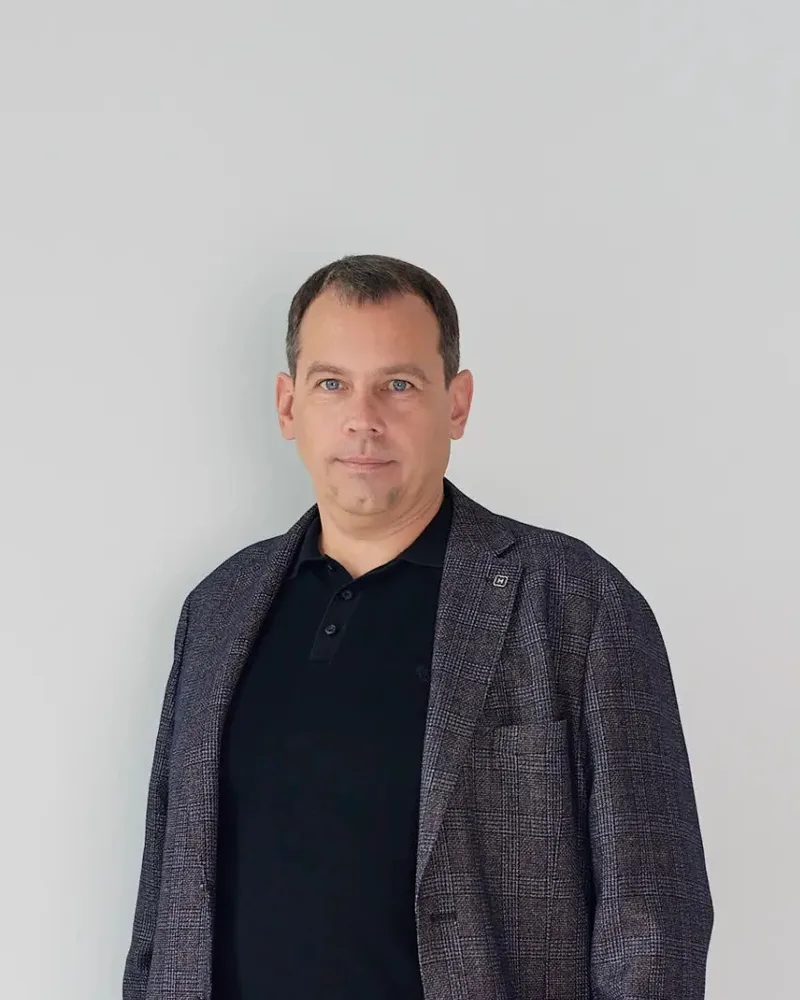
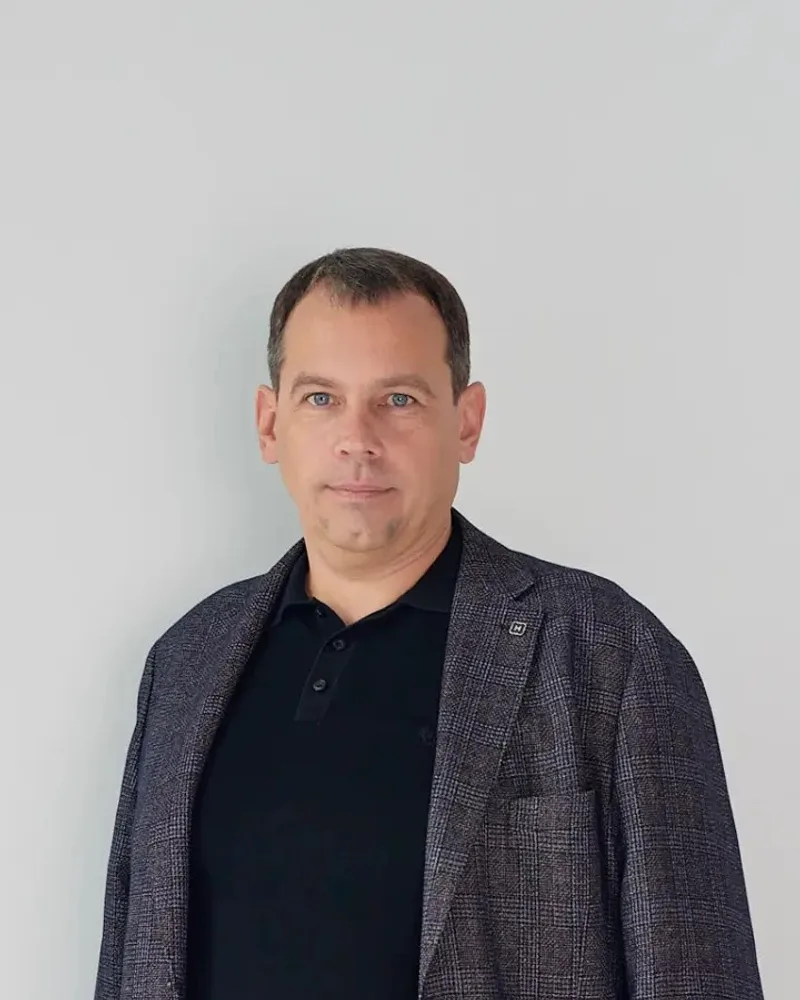
v33: Беляева=модератор программы, /privacy + ссылка в футере, cookie-уведомление, Гаврилов ближе, пресса только от заказчика (+КП)

Changed region(s): [[0.0938, 0.248, 0.9688, 1.0]]

diff --git a/public-regru/privacy/index.html b/public-regru/privacy/index.html
@@ -1,0 +1,110 @@
+<!doctype html>
+<html lang="ru">
+<head>
+  <meta charset="utf-8" />
+  <meta name="viewport" content="width=device-width, initial-scale=1" />
+  <title>Политика обработки персональных данных — «Наше дело»</title>
+  <meta name="description" content="Политика обработки персональных данных участников обучающей бизнес-программы «Наше дело» для ветеранов боевых действий, участников СВО и членов их семей." />
+  <meta name="referrer" content="strict-origin-when-cross-origin" />
+  <link rel="icon" type="image/svg+xml" href="../favicon.svg" />
+  <link rel="icon" type="image/png" href="../favicon.png" />
+  <style>
+    @font-face {
+      font-family: 'Geologica';
+      font-style: normal;
+      font-weight: 300 900;
+      font-display: swap;
+      src: url('../fonts/geologica-cyrillic.woff2') format('woff2');
+      unicode-range: U+0301, U+0400-045F, U+0490-0491, U+04B0-04B1, U+2116;
+    }
+    @font-face {
+      font-family: 'Geologica';
+      font-style: normal;
+      font-weight: 300 900;
+      font-display: swap;
+      src: url('../fonts/geologica-latin.woff2') format('woff2');
+      unicode-range: U+0000-00FF, U+2000-206F, U+20AC, U+2116, U+FEFF, U+FFFD;
+    }
+    :root {
+      --green: #154734;
+      --green-deep: #0d2f22;
+      --beige: #d9bfa8;
+      --brown: #623b2a;
+      --black: #27251f;
+    }
+    * { margin: 0; padding: 0; box-sizing: border-box; }
+    body {
+      font-family: 'Geologica', system-ui, sans-serif;
+      background: linear-gradient(180deg, var(--green-deep) 0%, var(--green) 40%, var(--green-deep) 100%);
+      color: var(--black);
+      min-height: 100vh;
+      -webkit-font-smoothing: antialiased;
+    }
+    .wrap { max-width: 860px; margin: 0 auto; padding: 32px 20px 64px; }
+    .back {
+      display: inline-flex; align-items: center; gap: 8px;
+      color: var(--beige); text-decoration: none; font-weight: 600; font-size: 14px;
+      border: 1.5px solid rgba(217,191,168,.45); border-radius: 999px; padding: 9px 20px;
+      transition: background .25s, border-color .25s;
+    }
+    .back:hover { background: rgba(217,191,168,.12); border-color: var(--beige); }
+    .panel {
+      margin-top: 26px;
+      background: linear-gradient(168deg, #f2e9de 0%, #ebdccf 60%, #e3d0bd 100%);
+      border: 1px solid rgba(217,191,168,.5);
+      border-radius: 22px;
+      box-shadow: inset 0 1px 0 rgba(255,255,255,.6), 0 18px 44px -18px rgba(0,0,0,.5);
+      padding: clamp(26px, 5vw, 56px);
+    }
+    h1 { font-size: clamp(24px, 4.4vw, 36px); font-weight: 900; letter-spacing: -0.02em; line-height: 1.15; text-wrap: balance; }
+    .meta { color: var(--brown); font-size: 13px; margin-top: 12px; }
+    h2 { font-size: clamp(17px, 2.6vw, 21px); font-weight: 800; margin: 34px 0 10px; letter-spacing: -0.01em; }
+    p, li { font-size: 15.5px; line-height: 1.68; }
+    p + p { margin-top: 10px; }
+    ul { margin: 8px 0 0 22px; }
+    li + li { margin-top: 8px; }
+    a.inline { color: var(--brown); font-weight: 600; }
+    .foot { margin-top: 40px; padding-top: 18px; border-top: 1px solid rgba(98,59,42,.2); color: var(--brown); font-size: 13px; }
+  </style>
+</head>
+<body>
+  <div class="wrap">
+    <a class="back" href="../">&#8592;&nbsp;На главную нашедело23.рф</a>
+
+    <div class="panel">
+      <h1>Политика обработки персональных данных</h1>
+      <p class="meta">Обучающая бизнес-программа «Наше дело» · редакция от 24.07.2026</p>
+
+      <h2>1. Общие положения</h2>
+      <p>Настоящая Политика определяет порядок обработки персональных данных участников обучающей бизнес-программы «Наше дело» для ветеранов боевых действий, участников специальной военной операции и членов их семей (далее — Программа) и действует в отношении данных, собираемых через анкету регистрации на сервисе «Яндекс Формы» и сайт нашедело23.рф.</p>
+
+      <h2>2. Операторы</h2>
+      <ul>
+        <li>Союз «Торгово-промышленная палата Краснодарского края», 350063, г.&nbsp;Краснодар, ул.&nbsp;Коммунаров, 8.</li>
+        <li>Унитарная некоммерческая организация «Фонд развития бизнеса Краснодарского края», ИНН&nbsp;2310140890, ОГРН&nbsp;1092300002695, 350911, г.&nbsp;Краснодар, ул.&nbsp;Трамвайная, 2/6; info@нашедело23.рф, 8&nbsp;(861)&nbsp;992-03-47.</li>
+      </ul>
+
+      <h2>3. Правовое основание и цели обработки</h2>
+      <p>Основание обработки — согласие субъекта персональных данных (п. 1 ч. 1 ст. 6 Федерального закона от 27.07.2006 № 152-ФЗ «О персональных данных»), данное при отправке анкеты регистрации. Цели — регистрация и организация участия в Программе: проверка соответствия условиям участия, связь с участником, формирование учебных групп по городам, информирование о расписании и материалах Программы.</p>
+
+      <h2>4. Состав обрабатываемых данных</h2>
+      <p>Фамилия, имя, отчество; адрес регистрации (населённый пункт); номер телефона; адрес электронной почты; выбранный город обучения; сведения о наличии статуса индивидуального предпринимателя или участии в юридическом лице; сфера предпринимательской деятельности; данные, содержащиеся в копиях документов, подтверждающих участие в боевых действиях и/или специальной военной операции, родство, личность (паспорт).</p>
+      <p>Сайт нашедело23.рф самостоятельно персональные данные не собирает. На сайте используется сервис веб-аналитики Яндекс.Метрика (ООО «ЯНДЕКС»), который с помощью файлов cookie собирает обезличенные технические сведения о посещении (данные о браузере, устройстве, IP-адресе, просмотренных страницах) для статистики посещаемости. Продолжая пользоваться сайтом, посетитель соглашается с использованием cookie; отключить cookie можно в настройках браузера.</p>
+
+      <h2>5. Порядок обработки и передачи</h2>
+      <p>Обработка осуществляется смешанным способом, в том числе с использованием сервиса «Яндекс Формы» (ООО «ЯНДЕКС», серверы на территории Российской Федерации). Данные доступны уполномоченным сотрудникам операторов и передаются организациям, привлечённым к проведению Программы (учебные площадки в городах проведения), в объёме, необходимом для организации обучения. Распространение (публикация) персональных данных не осуществляется. Трансграничная передача не осуществляется.</p>
+
+      <h2>6. Сроки обработки</h2>
+      <p>Данные хранятся до достижения целей обработки, но не более 3 (трёх) лет с даты отправки анкеты, либо до отзыва согласия. По завершении Программы данные, не требуемые для отчётности, подлежат уничтожению.</p>
+
+      <h2>7. Права субъекта персональных данных</h2>
+      <p>Субъект вправе получать сведения об обработке своих персональных данных, требовать их уточнения, блокирования или уничтожения, а также отозвать согласие — направив заявление на info@нашедело23.рф или почтовый адрес операторов. Ответ предоставляется в срок, установленный 152-ФЗ.</p>
+
+      <h2>8. Меры защиты</h2>
+      <p>Доступ к анкетам ограничен уполномоченными сотрудниками; используются штатные средства защиты сервиса «Яндекс Формы»; выгрузка данных на носители и пересылка копий документов по открытым каналам не допускаются.</p>
+
+      <p class="foot">Вопросы по обработке персональных данных: info@нашедело23.рф, 8&nbsp;(861)&nbsp;992-03-47.</p>
+    </div>
+  </div>
+</body>
+</html>

diff --git a/public/privacy/index.html b/public/privacy/index.html
@@ -1,0 +1,110 @@
+<!doctype html>
+<html lang="ru">
+<head>
+  <meta charset="utf-8" />
+  <meta name="viewport" content="width=device-width, initial-scale=1" />
+  <title>Политика обработки персональных данных — «Наше дело»</title>
+  <meta name="description" content="Политика обработки персональных данных участников обучающей бизнес-программы «Наше дело» для ветеранов боевых действий, участников СВО и членов их семей." />
+  <meta name="referrer" content="strict-origin-when-cross-origin" />
+  <link rel="icon" type="image/svg+xml" href="../favicon.svg" />
+  <link rel="icon" type="image/png" href="../favicon.png" />
+  <style>
+    @font-face {
+      font-family: 'Geologica';
+      font-style: normal;
+      font-weight: 300 900;
+      font-display: swap;
+      src: url('../fonts/geologica-cyrillic.woff2') format('woff2');
+      unicode-range: U+0301, U+0400-045F, U+0490-0491, U+04B0-04B1, U+2116;
+    }
+    @font-face {
+      font-family: 'Geologica';
+      font-style: normal;
+      font-weight: 300 900;
+      font-display: swap;
+      src: url('../fonts/geologica-latin.woff2') format('woff2');
+      unicode-range: U+0000-00FF, U+2000-206F, U+20AC, U+2116, U+FEFF, U+FFFD;
+    }
+    :root {
+      --green: #154734;
+      --green-deep: #0d2f22;
+      --beige: #d9bfa8;
+      --brown: #623b2a;
+      --black: #27251f;
+    }
+    * { margin: 0; padding: 0; box-sizing: border-box; }
+    body {
+      font-family: 'Geologica', system-ui, sans-serif;
+      background: linear-gradient(180deg, var(--green-deep) 0%, var(--green) 40%, var(--green-deep) 100%);
+      color: var(--black);
+      min-height: 100vh;
+      -webkit-font-smoothing: antialiased;
+    }
+    .wrap { max-width: 860px; margin: 0 auto; padding: 32px 20px 64px; }
+    .back {
+      display: inline-flex; align-items: center; gap: 8px;
+      color: var(--beige); text-decoration: none; font-weight: 600; font-size: 14px;
+      border: 1.5px solid rgba(217,191,168,.45); border-radius: 999px; padding: 9px 20px;
+      transition: background .25s, border-color .25s;
+    }
+    .back:hover { background: rgba(217,191,168,.12); border-color: var(--beige); }
+    .panel {
+      margin-top: 26px;
+      background: linear-gradient(168deg, #f2e9de 0%, #ebdccf 60%, #e3d0bd 100%);
+      border: 1px solid rgba(217,191,168,.5);
+      border-radius: 22px;
+      box-shadow: inset 0 1px 0 rgba(255,255,255,.6), 0 18px 44px -18px rgba(0,0,0,.5);
+      padding: clamp(26px, 5vw, 56px);
+    }
+    h1 { font-size: clamp(24px, 4.4vw, 36px); font-weight: 900; letter-spacing: -0.02em; line-height: 1.15; text-wrap: balance; }
+    .meta { color: var(--brown); font-size: 13px; margin-top: 12px; }
+    h2 { font-size: clamp(17px, 2.6vw, 21px); font-weight: 800; margin: 34px 0 10px; letter-spacing: -0.01em; }
+    p, li { font-size: 15.5px; line-height: 1.68; }
+    p + p { margin-top: 10px; }
+    ul { margin: 8px 0 0 22px; }
+    li + li { margin-top: 8px; }
+    a.inline { color: var(--brown); font-weight: 600; }
+    .foot { margin-top: 40px; padding-top: 18px; border-top: 1px solid rgba(98,59,42,.2); color: var(--brown); font-size: 13px; }
+  </style>
+</head>
+<body>
+  <div class="wrap">
+    <a class="back" href="../">&#8592;&nbsp;На главную нашедело23.рф</a>
+
+    <div class="panel">
+      <h1>Политика обработки персональных данных</h1>
+      <p class="meta">Обучающая бизнес-программа «Наше дело» · редакция от 24.07.2026</p>
+
+      <h2>1. Общие положения</h2>
+      <p>Настоящая Политика определяет порядок обработки персональных данных участников обучающей бизнес-программы «Наше дело» для ветеранов боевых действий, участников специальной военной операции и членов их семей (далее — Программа) и действует в отношении данных, собираемых через анкету регистрации на сервисе «Яндекс Формы» и сайт нашедело23.рф.</p>
+
+      <h2>2. Операторы</h2>
+      <ul>
+        <li>Союз «Торгово-промышленная палата Краснодарского края», 350063, г.&nbsp;Краснодар, ул.&nbsp;Коммунаров, 8.</li>
+        <li>Унитарная некоммерческая организация «Фонд развития бизнеса Краснодарского края», ИНН&nbsp;2310140890, ОГРН&nbsp;1092300002695, 350911, г.&nbsp;Краснодар, ул.&nbsp;Трамвайная, 2/6; info@нашедело23.рф, 8&nbsp;(861)&nbsp;992-03-47.</li>
+      </ul>
+
+      <h2>3. Правовое основание и цели обработки</h2>
+      <p>Основание обработки — согласие субъекта персональных данных (п. 1 ч. 1 ст. 6 Федерального закона от 27.07.2006 № 152-ФЗ «О персональных данных»), данное при отправке анкеты регистрации. Цели — регистрация и организация участия в Программе: проверка соответствия условиям участия, связь с участником, формирование учебных групп по городам, информирование о расписании и материалах Программы.</p>
+
+      <h2>4. Состав обрабатываемых данных</h2>
+      <p>Фамилия, имя, отчество; адрес регистрации (населённый пункт); номер телефона; адрес электронной почты; выбранный город обучения; сведения о наличии статуса индивидуального предпринимателя или участии в юридическом лице; сфера предпринимательской деятельности; данные, содержащиеся в копиях документов, подтверждающих участие в боевых действиях и/или специальной военной операции, родство, личность (паспорт).</p>
+      <p>Сайт нашедело23.рф самостоятельно персональные данные не собирает. На сайте используется сервис веб-аналитики Яндекс.Метрика (ООО «ЯНДЕКС»), который с помощью файлов cookie собирает обезличенные технические сведения о посещении (данные о браузере, устройстве, IP-адресе, просмотренных страницах) для статистики посещаемости. Продолжая пользоваться сайтом, посетитель соглашается с использованием cookie; отключить cookie можно в настройках браузера.</p>
+
+      <h2>5. Порядок обработки и передачи</h2>
+      <p>Обработка осуществляется смешанным способом, в том числе с использованием сервиса «Яндекс Формы» (ООО «ЯНДЕКС», серверы на территории Российской Федерации). Данные доступны уполномоченным сотрудникам операторов и передаются организациям, привлечённым к проведению Программы (учебные площадки в городах проведения), в объёме, необходимом для организации обучения. Распространение (публикация) персональных данных не осуществляется. Трансграничная передача не осуществляется.</p>
+
+      <h2>6. Сроки обработки</h2>
+      <p>Данные хранятся до достижения целей обработки, но не более 3 (трёх) лет с даты отправки анкеты, либо до отзыва согласия. По завершении Программы данные, не требуемые для отчётности, подлежат уничтожению.</p>
+
+      <h2>7. Права субъекта персональных данных</h2>
+      <p>Субъект вправе получать сведения об обработке своих персональных данных, требовать их уточнения, блокирования или уничтожения, а также отозвать согласие — направив заявление на info@нашедело23.рф или почтовый адрес операторов. Ответ предоставляется в срок, установленный 152-ФЗ.</p>
+
+      <h2>8. Меры защиты</h2>
+      <p>Доступ к анкетам ограничен уполномоченными сотрудниками; используются штатные средства защиты сервиса «Яндекс Формы»; выгрузка данных на носители и пересылка копий документов по открытым каналам не допускаются.</p>
+
+      <p class="foot">Вопросы по обработке персональных данных: info@нашедело23.рф, 8&nbsp;(861)&nbsp;992-03-47.</p>
+    </div>
+  </div>
+</body>
+</html>

diff --git a/src33/components/Press15.jsx b/src33/components/Press15.jsx
@@ -5,7 +5,9 @@ const EASE = [0.19, 1, 0.22, 1]
 
 /* «О нас пишут» v33: РЕАЛЬНЫЕ публикации о старте программы (21.07.2026).
    Заголовки — как в первоисточниках; у новости администрации края
-   заголовок с сайта недоступен, поэтому дано описание материала. */
+   заголовок с сайта недоступен, поэтому дано описание материала.
+   ПРАВИЛО (Валерия, 24.07.2026): публикуем ТОЛЬКО материалы, которые даёт
+   заказчик — самостоятельно найденные ссылки сюда не добавлять. */
 const ROWS = [
   {
     outlet: 'РИА Новости',
@@ -27,26 +29,10 @@ const ROWS = [
     title: 'В Краснодарском крае стартует проект «Наше дело» — образовательная программа для ветеранов СВО и членов их семей',
     href: 'https://pav-edin23.ru/2026/07/21/v-krasnodarskom-krae-startuet-proekt-nashe-delo-obrazovatelnaya-programma-dlya-veteranov-svo-i-chlenov-ix-semej/',
   },
-  /* Вторая волна (согласована заказчиком 24.07.2026) */
   {
-    outlet: 'Кубань 24',
-    title: 'На Кубани по нацпроекту проведут бизнес-обучение для участников СВО и их семей',
-    href: 'https://kuban24.tv/item/na-kubani-po-natsproektu-provedut-biznes-obuchenie-dlya-uchastnikov-svo-i-ih-semej',
-  },
-  {
-    outlet: 'Центр «Мой бизнес»',
-    title: '«Наше дело»: на Кубани организуют бизнес-обучение для участников СВО и их семей',
-    href: 'https://moibiz93.ru/events/news/nashe-delo-na-kubani-organizuyut-biznes-obuchenie-dlya-uchastnikov-svo-i-ikh-semey/',
-  },
-  {
-    outlet: 'Кубань Сегодня',
-    title: 'В Краснодарском крае организуют бизнес-обучение для участников СВО и их семей',
-    href: 'https://kubantoday.ru/v-krasnodarskom-krae-organizujut-biznes-obuchenie-dlja-uchastnikov-svo-i-ih-semej/',
-  },
-  {
-    outlet: 'Портал 23RUS',
-    title: 'На Кубани организуют бизнес-обучение для участников СВО и их семей',
-    href: 'https://23rus.org/news/society/62930.html',
+    outlet: 'Комсомольская правда — Кубань',
+    title: 'На Кубани разработали бизнес-курсы для участников СВО и членов их семей',
+    href: 'https://www.kuban.kp.ru/online/news/7083311/',
   },
 ]
 

diff --git a/src33/components/CookieNote33.jsx b/src33/components/CookieNote33.jsx
@@ -1,0 +1,60 @@
+import { useEffect, useState } from 'react'
+import { AnimatePresence, motion } from 'framer-motion'
+
+const KEY = 'nd-cookie-ok'
+
+/* Уведомление о cookie/Яндекс.Метрике (рекомендация аудита 152-ФЗ, 24.07.2026):
+   информируем посетителя об аналитике и даём ссылку на политику.
+   Полоска над нижним краем, слева — чтобы не спорить со sticky-CTA справа.
+   Появляется с задержкой, после «Хорошо» не показывается (localStorage). */
+export default function CookieNote33() {
+  const [show, setShow] = useState(false)
+
+  useEffect(() => {
+    let ok = false
+    try {
+      ok = localStorage.getItem(KEY) === '1'
+    } catch { /* приватный режим без localStorage — покажем снова */ }
+    if (!ok) {
+      const t = setTimeout(() => setShow(true), 1600)
+      return () => clearTimeout(t)
+    }
+  }, [])
+
+  const accept = () => {
+    try {
+      localStorage.setItem(KEY, '1')
+    } catch { /* нет localStorage — просто скрываем до перезагрузки */ }
+    setShow(false)
+  }
+
+  return (
+    <AnimatePresence>
+      {show && (
+        <motion.div
+          className="fixed bottom-3 left-3 right-3 sm:right-auto sm:max-w-[420px] z-[90] rounded-2xl border border-[#d9bfa8]/30 bg-[#0d2f22]/95 backdrop-blur px-5 py-4 shadow-[0_18px_44px_-16px_rgba(0,0,0,0.6)]"
+          initial={{ opacity: 0, y: 24 }}
+          animate={{ opacity: 1, y: 0 }}
+          exit={{ opacity: 0, y: 16 }}
+          transition={{ duration: 0.45, ease: [0.19, 1, 0.22, 1] }}
+          role="region"
+          aria-label="Уведомление об использовании cookie"
+        >
+          <p className="text-[#e8ddd0] text-[13px] leading-snug">
+            Сайт использует cookie и Яндекс.Метрику для статистики посещаемости.
+            Продолжая, вы соглашаетесь с{' '}
+            <a href="../privacy/" className="underline underline-offset-2 font-semibold hover:text-white">
+              политикой обработки персональных данных
+            </a>.
+          </p>
+          <button
+            onClick={accept}
+            className="btn-light mt-3 px-5 py-2 text-[13px] font-bold cursor-pointer"
+          >
+            Хорошо
+          </button>
+        </motion.div>
+      )}
+    </AnimatePresence>
+  )
+}

diff --git a/src33/content.js b/src33/content.js
@@ -134,7 +134,7 @@ export const WEBINARS = [
   },
   {
     title: 'Государственная поддержка субъектов МСП',
-    speaker: 'Беляева',
+    speaker: 'Инна Леонидовна Беляева',
     kind: 'вебинар',
     points: [
       'Узнаете, какие виды поддержки существуют: гранты, субсидии, льготные программы.',
@@ -147,8 +147,7 @@ export const WEBINARS = [
 /* Спикеры программы — собраны из лекций/вебинаров выше (2026-07-22).
    Темы — из названий занятий, ничего не выдумано.
    Фото (2026-07-24, от заказчика): public/speakers/<photo>.webp, 800x1000.
-   Беляева — спикер Господдержки МСП (подтвердил Владислав 24.07;
-   полные ФИО ждём от заказчика). */
+   Беляева Инна Леонидовна — модератор программы (уточнил заказчик 24.07). */
 export const SPEAKERS = [
   { name: 'Елена Юрьевна Нагорная', topic: 'Психология предпринимательства · бизнес-идеи', photo: 'nagornaya' },
   { name: 'Любовь Викторовна Шаповалова', topic: 'Маркетинг и продажи', photo: 'shapovalova' },
@@ -157,7 +156,7 @@ export const SPEAKERS = [
   { name: 'Татьяна Николаевна Папета', topic: 'Управление эмоциями', photo: 'papeta' },
   { name: 'Евгения Андреевна Гертель', topic: 'Франчайзинг', photo: 'gertel' },
   { name: 'Лариса Дмитриевна Амельченко', topic: 'Кадры и команда', photo: 'amelchenko' },
-  { name: 'Беляева', topic: 'Господдержка МСП', photo: 'belyaeva' },
+  { name: 'Инна Леонидовна Беляева', topic: 'Модератор программы', photo: 'belyaeva' },
 ]
 
 /* Фото по имени спикера — для модалки программы */

diff --git a/src33/components/Footer5.jsx b/src33/components/Footer5.jsx
@@ -151,6 +151,10 @@ export default function Footer5() {
         </div>
         <div className="border-t border-white/15 mt-12 pt-6 flex flex-col sm:flex-row justify-between gap-3 text-xs text-[#b3a394]">
           <span>© 2026 «Наше дело». Все права защищены.</span>
+          {/* Обязательная ссылка: ч. 2 ст. 18.1 152-ФЗ — политика в открытом доступе */}
+          <a href="../privacy/" className="underline underline-offset-2 hover:text-white transition">
+            Политика обработки персональных данных
+          </a>
           <span>нашедело23.рф</span>
         </div>
       </div>

diff --git a/src33/components/Program5.jsx b/src33/components/Program5.jsx
@@ -67,7 +67,7 @@ function LectureModal({ lecture, onClose }) {
           {/* Фото спикера (2026-07-24); силуэт — если фото ещё нет */}
           {SPEAKER_PHOTOS[lecture.speaker] ? (
             <img
-              src={`../speakers/${SPEAKER_PHOTOS[lecture.speaker]}.webp?v=2`}
+              src={`../speakers/${SPEAKER_PHOTOS[lecture.speaker]}.webp?v=3`}
               alt={lecture.speaker}
               loading="lazy"
               className="w-28 h-28 sm:w-32 sm:h-32 rounded-2xl object-cover flex-shrink-0 border border-[#27251f]/10"

diff --git a/src33/components/Speakers5.jsx b/src33/components/Speakers5.jsx
@@ -42,7 +42,7 @@ export default function Speakers5() {
               <div className="speaker-card3 aspect-[4/5] relative overflow-hidden">
                 {photo ? (
                   <img
-                    src={`../speakers/${photo}.webp?v=2`}
+                    src={`../speakers/${photo}.webp?v=3`}
                     alt={name}
                     loading="lazy"
                     className="absolute inset-0 w-full h-full object-cover transition-transform duration-700 ease-out group-hover:scale-[1.045]"

diff --git a/src33/App.jsx b/src33/App.jsx
@@ -14,6 +14,7 @@ import Cta5 from './components/Cta5.jsx'
 import SvoSupport33 from './components/SvoSupport33.jsx'
 import Footer5 from './components/Footer5.jsx'
 import StickyCta21 from './components/StickyCta21.jsx'
+import CookieNote33 from './components/CookieNote33.jsx'
 
 export default function App() {
   return (
@@ -39,6 +40,7 @@ export default function App() {
       </main>
       <Footer5 />
       <StickyCta21 />
+      <CookieNote33 />
     </div>
     </MotionConfig>
   )
